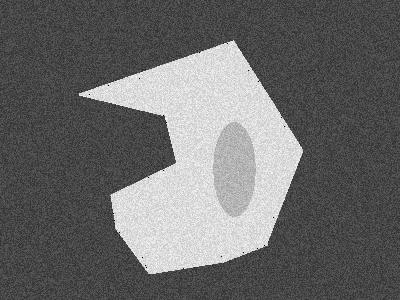
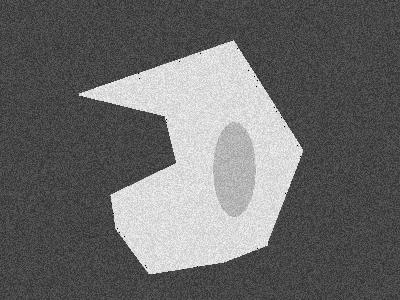
feat: часть 10

Changed region(s): [[0.0, 0.0, 1.0, 1.0], [0.18, 0.99, 0.21, 1.0]]

diff --git a/lesson10/ImageLesson10.py b/lesson10/ImageLesson10.py
@@ -2,7 +2,7 @@ from Drivers.ImageModelDriver import *
 from Drivers.ImageDisplayDriver import *
 from Drivers.ReadDriver import *
 
-class ImageLesson9:
+class ImageLesson10:
 
     @staticmethod
     def run():
@@ -10,11 +10,11 @@ class ImageLesson9:
         # Загружаем фото model.jpg
         # ----------------------
 
-        loaded_image_model = SPDImage.fromFile('lesson9/', 'model', '.jpg', np.uint8)
+        loaded_image_model = SPDImage.fromFile('lesson10/', 'model', '.jpg', np.uint8)
 
         ImageModelDriver.low_pass_filter(loaded_image_model, 'gausse', 60)
         ImageModelDriver.threshold(loaded_image_model, 200)
-        ImageModelDriver.high_pass_filter(loaded_image_model, 'gausse', 100)
+        ImageModelDriver.sobel_gradient(loaded_image_model)
         ImageModelDriver.threshold(loaded_image_model, 20)
 
         ImageDisplayDriver.save(loaded_image_model)
@@ -23,11 +23,11 @@ class ImageLesson9:
         # Загружаем фото model_salt_and_pepper_and_noize.jpg
         # ----------------------
 
-        loaded_image_model = SPDImage.fromFile('lesson9/', 'model_salt_and_pepper_and_noize', '.jpg', np.uint8)
+        loaded_image_model = SPDImage.fromFile('lesson10/', 'model_salt_and_pepper_and_noize', '.jpg', np.uint8)
 
         ImageModelDriver.low_pass_filter(loaded_image_model, 'gausse', 60)
         ImageModelDriver.threshold(loaded_image_model, 200)
-        ImageModelDriver.high_pass_filter(loaded_image_model, 'gausse', 100)
+        ImageModelDriver.sobel_gradient(loaded_image_model)
         ImageModelDriver.threshold(loaded_image_model, 20)
 
         ImageDisplayDriver.save(loaded_image_model)
@@ -36,12 +36,12 @@ class ImageLesson9:
         # Загружаем фото model_linear_filter.jpg
         # ----------------------
 
-        loaded_image_model = SPDImage.fromFile('lesson9/', 'model_linear_filter', '.jpg', np.uint8)
+        loaded_image_model = SPDImage.fromFile('lesson10/', 'model_linear_filter', '.jpg', np.uint8)
 
         ImageModelDriver.low_pass_filter(loaded_image_model, 'gausse', 60)
         ImageModelDriver.threshold(loaded_image_model, 200)
-        ImageModelDriver.high_pass_filter(loaded_image_model, 'gausse', 100)
-        ImageModelDriver.threshold(loaded_image_model, 20)
+        ImageModelDriver.sobel_gradient(loaded_image_model)
+        ImageModelDriver.threshold(loaded_image_model, 15)
 
         ImageDisplayDriver.save(loaded_image_model)
 
@@ -49,11 +49,11 @@ class ImageLesson9:
         # Загружаем фото model_median_filter.jpg
         # ----------------------
 
-        loaded_image_model = SPDImage.fromFile('lesson9/', 'model_median_filter', '.jpg', np.uint8)
+        loaded_image_model = SPDImage.fromFile('lesson10/', 'model_median_filter', '.jpg', np.uint8)
 
         ImageModelDriver.low_pass_filter(loaded_image_model, 'gausse', 60)
         ImageModelDriver.threshold(loaded_image_model, 200)
-        ImageModelDriver.high_pass_filter(loaded_image_model, 'gausse', 100)
-        ImageModelDriver.threshold(loaded_image_model, 20)
+        ImageModelDriver.sobel_gradient(loaded_image_model)
+        ImageModelDriver.threshold(loaded_image_model, 15)
 
         ImageDisplayDriver.save(loaded_image_model)

diff --git a/Drivers/ImageModelDriver.py b/Drivers/ImageModelDriver.py
@@ -410,3 +410,72 @@ class ImageModelDriver:
         image[image != np.iinfo(image_sd.dtype).max] = np.iinfo(image_sd.dtype).min
 
         image_sd.update(image, '_threshold_' + str(threshold_const))
+
+    # -------------------------------
+    # Лекция 10
+    # -------------------------------
+
+    @staticmethod
+    def simple_gradient(image_sd: SPDImage):
+        image = image_sd.modified_image
+        kernel = 3
+        mask = [[-1, -1, -1], [-1, 8, -1], [-1, -1, -1]]
+
+        output = np.zeros_like(image)
+        image_padded = np.zeros((image.shape[0] + kernel - 1, image.shape[1] + kernel - 1))
+        image_padded[1:-1, 1:-1] = image
+
+        for x in range(image.shape[1]):
+            for y in range(image.shape[0]):
+                output[y, x] = np.sum((mask * image_padded[y: y + kernel, x: x + kernel]))
+
+        processed_image = np.array(output)
+
+        image_sd.modified_folder = image_sd.modified_folder + '_simple_gradient_filter/'
+        image_sd.update(processed_image, '_simple_gradient_filter')
+
+    @staticmethod
+    def sobel_gradient(image_sd: SPDImage, type=''):
+        image = image_sd.modified_image
+        kernel = 3
+
+        if type == 'horizontal':
+            mask = [
+                [[-1, -1, -1], [2, 2, 2], [-1, -1, -1]]
+            ]
+        elif type == '45':
+            mask = [
+                [[-1, -1, 2], [-1, 2, -1], [2, -1, -1]]
+            ]
+        elif type == 'vertical':
+            mask = [
+                [[-1, 2, -1], [-1, 2, -1], [-1, 2, -1]]
+            ]
+        elif type == '-45':
+            mask = [
+                [[2, -1, -1], [-1, 2, -1], [-1, -1, 2]]
+            ]
+        else:
+            mask = [
+                [[-1, -1, -1], [2, 2, 2], [-1, -1, -1]],
+                [[-1, -1, 2], [-1, 2, -1], [2, -1, -1]],
+                [[-1, 2, -1], [-1, 2, -1], [-1, 2, -1]],
+                [[2, -1, -1], [-1, 2, -1], [-1, -1, 2]]
+            ]
+
+        output = np.zeros_like(image)
+        image_padded = np.zeros((image.shape[0] + kernel - 1, image.shape[1] + kernel - 1))
+        image_padded[1:-1, 1:-1] = image
+
+        for x in range(image.shape[1]):
+            for y in range(image.shape[0]):
+                values = []
+                for i in mask:
+                    values.append(np.sum((i * image_padded[y: y + kernel, x: x + kernel])))
+
+                output[y, x] = np.max(values)
+
+        processed_image = np.array(output)
+
+        image_sd.modified_folder = image_sd.modified_folder + '_sobel_gradient_filter_' + type + '/'
+        image_sd.update(processed_image, '_sobel_gradient_filter')

diff --git a/lesson6/ImageLesson6.py b/lesson6/ImageLesson6.py
@@ -52,8 +52,8 @@ class ImageLesson6:
 
         loaded_image_model.modified_folder = loaded_image_model.folder + "full_noize/"
 
-        ImageModelDriver.random_noize(loaded_image_model, 10)
-        ImageModelDriver.salt_pepper(loaded_image_model, 1)
+        ImageModelDriver.random_noize(loaded_image_model, 20)
+        ImageModelDriver.salt_pepper(loaded_image_model, 3)
         ImageDisplayDriver.save(loaded_image_model)
 
         loaded_image_model_linear_filter = loaded_image_model.copy()

diff --git a/main.py b/main.py
@@ -7,6 +7,7 @@ from lesson6.ImageLesson6 import *
 from lesson7.ImageLesson7 import *
 from lesson8.ImageLesson8 import *
 from lesson9.ImageLesson9 import *
+from lesson10.ImageLesson10 import *
 
 # ImageLesson1.run()
 # ImageLesson2.run()
@@ -16,4 +17,5 @@ from lesson9.ImageLesson9 import *
 # ImageLesson6.run()
 # ImageLesson7.run()
 # ImageLesson8.run()
-ImageLesson9.run()
+# ImageLesson9.run()
+ImageLesson10.run()
